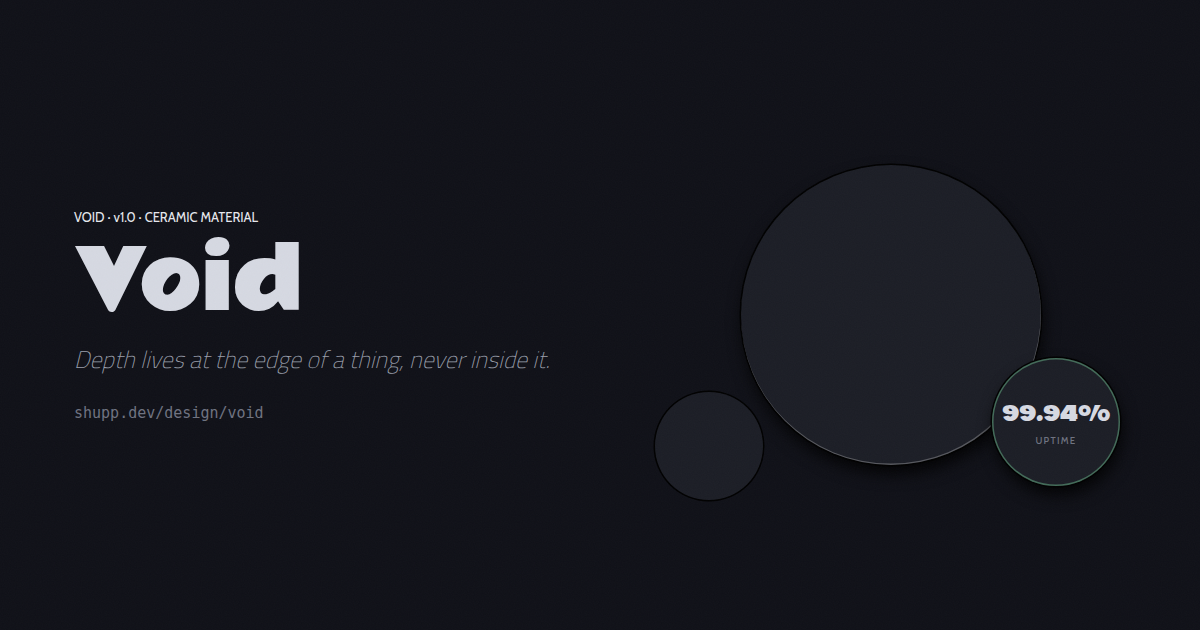
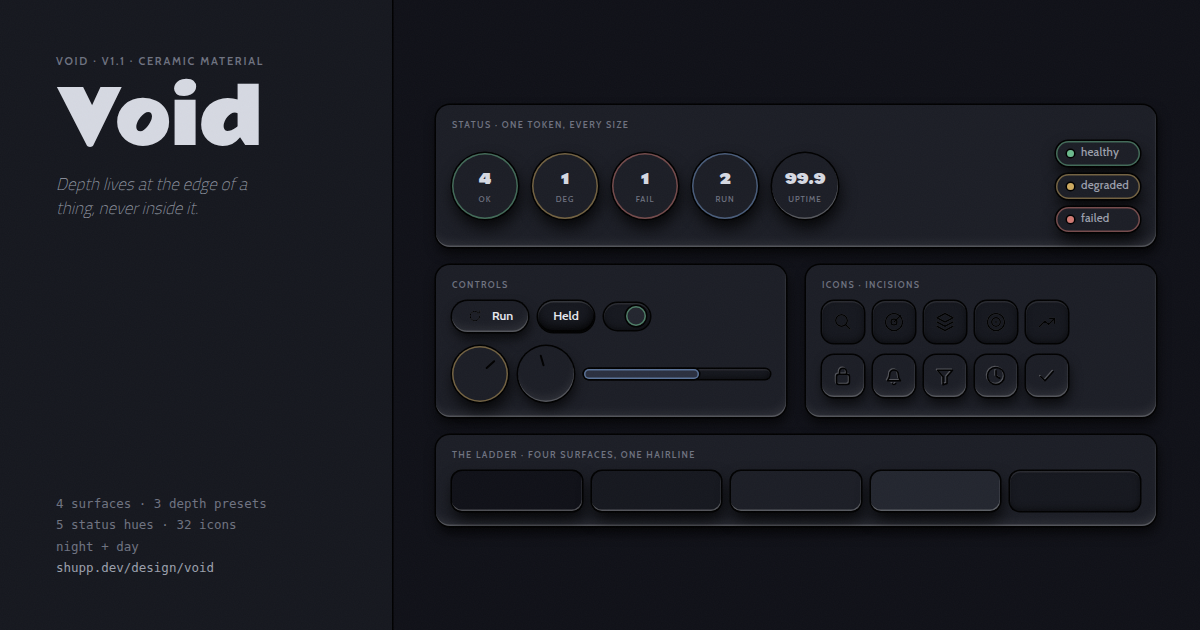
Lay both systems out as sheets, and rebuild the VOID card
- PRISM gains the same sizes x styles treatment as VOID: five button
  sizes over four styles, badges and the new chip at three sizes over
  two, and the role tokens with their live swatches. The layer gained
  the modifiers those matrices document (.prism-btn--xs/sm/lg/xl,
  .prism-badge--sm/lg, .prism-chip). Every cell derives from the anchor
  hue, so the whole sheet rotates with the slider.

- The VOID card image is now an actual system sheet — statuses at disc
  and badge scale, the control set including a pressed button, both
  icon treatments, and the four-surface ladder with a sunk well — all
  composed from the real primitives at 1200x630, so it cannot drift
  from the CSS.

Claude-Session: https://claude.ai/code/session_01YHfkXWEb5FmXGa3ch4i6iz

diff --git a/public/prism/prism.css b/public/prism/prism.css
@@ -204,6 +204,29 @@ body {
 .prism-btn--primary { color: #fff; background: linear-gradient(calc(var(--la) * 1deg + 15deg), var(--anchor), oklch(0.58 0.12 var(--h))); }
 .prism-btn--dense { color: var(--on-dense); background: var(--dense); box-shadow: var(--elev-dense); }
 
+/* five sizes over one shape. Padding and type scale; the dichroic edge
+   stays 1.5px and the radius steps with the box, so a small button is
+   the same object seen smaller rather than a different one. */
+.prism-btn--xs { padding: 6px 12px;  font-size: 12px;   border-radius: 7px; }
+.prism-btn--sm { padding: 9px 17px;  font-size: 13.5px; border-radius: 8px; }
+.prism-btn--lg { padding: 15px 30px; font-size: 16px;   border-radius: 12px; }
+.prism-btn--xl { padding: 18px 36px; font-size: 17.5px; border-radius: 14px; }
+
+/* three badge sizes */
+.prism-badge--sm { font-size: 11px;   padding: 5px 11px; }
+.prism-badge--lg { font-size: 14px;   padding: 9px 18px; }
+
+/* the chip: a badge that carries the dichroic edge instead of a fill */
+.prism-chip {
+  display: inline-flex; align-items: center; gap: 7px;
+  font-size: 12.5px; font-weight: 500; padding: 6px 13px; border-radius: 99px;
+  background: var(--chip-bg); color: var(--chip-ink);
+  transition: background var(--t-sunset) var(--e-refract), color var(--t-sunset) var(--e-refract);
+}
+.prism-chip--sm { font-size: 11px; padding: 4px 10px; }
+.prism-chip--lg { font-size: 14px; padding: 8px 16px; }
+.prism-chip .prism-dot { width: 9px; height: 9px; border-radius: 50%; background: var(--anchor); }
+
 /* surface card (floating) */
 .prism-card {
   background: var(--surface); color: var(--ink);
